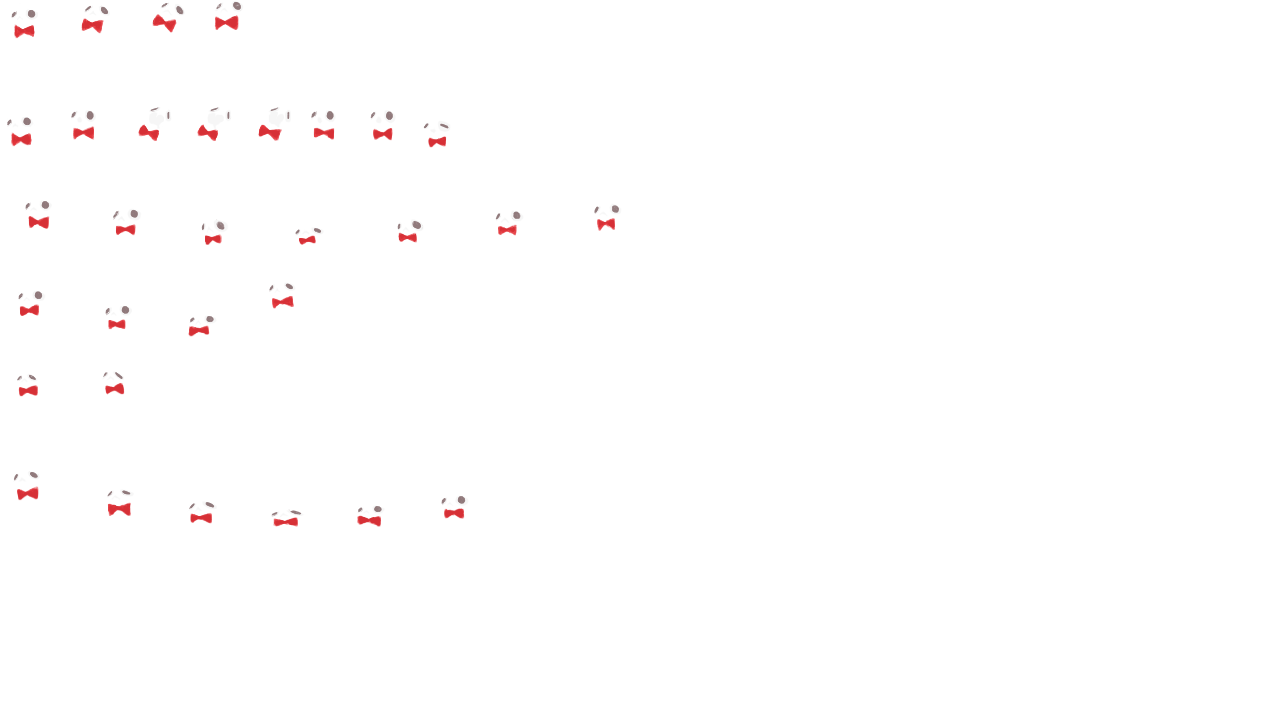
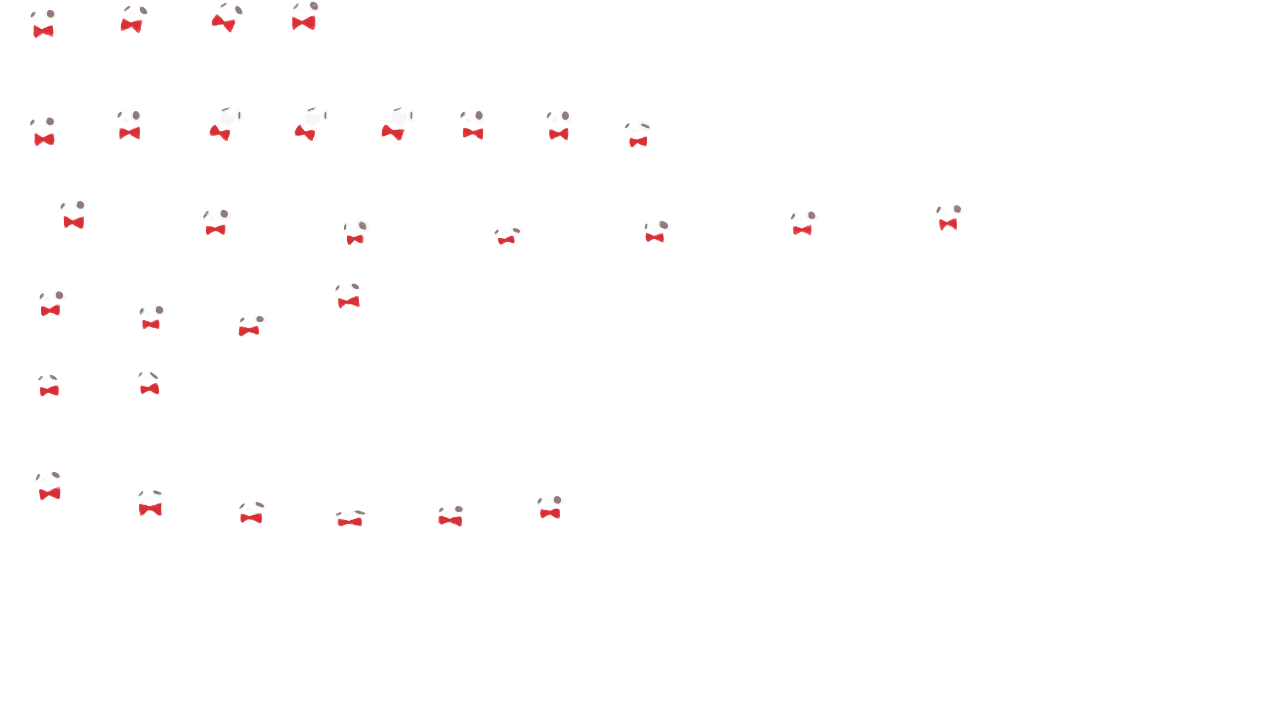
プレイヤー画像とスプライトデータ変更

diff --git a/sprite_data.cpp b/sprite_data.cpp
@@ -135,10 +135,10 @@ SPRITE_LEFTTOP e_sprCoverBack = SPRITE_LEFTTOP(TEX_COVER_BACK, 0, 0, PAGE_WIDTH 
 
 SPRITE_BOTTOM e_pAnimePlayerStandby[] = {
 
-	SPRITE_BOTTOM(TEX_PLAYER, 0 + 67 * 0, 0, 67, 55, 8),
-	SPRITE_BOTTOM(TEX_PLAYER, 0 + 67 * 1, 0, 67, 55, 8),
-	SPRITE_BOTTOM(TEX_PLAYER, 0 + 67 * 2, 0, 67, 55, 8),
-	SPRITE_BOTTOM(TEX_PLAYER, 0 + 67 * 3, 0, 67, 55, 8),
+	SPRITE_BOTTOM(TEX_PLAYER, 0 + 86 * 0, 0, 86, 55, 8),
+	SPRITE_BOTTOM(TEX_PLAYER, 0 + 86 * 1, 0, 86, 55, 8),
+	SPRITE_BOTTOM(TEX_PLAYER, 0 + 86 * 2, 0, 86, 55, 8),
+	SPRITE_BOTTOM(TEX_PLAYER, 0 + 86 * 3, 0, 86, 55, 8),
 	SPRITE_BOTTOM(-1, 0, 0, 0, 0),
 };
 
@@ -157,14 +157,14 @@ SPRITE_BOTTOM e_pAnimePlayerStandby[] = {
 
 SPRITE_BOTTOM e_pAnimePlayerYawn[] = {
 
-	SPRITE_BOTTOM(TEX_PLAYER, 0 + 60 * 0, 85, 60, 78, 8),
-	SPRITE_BOTTOM(TEX_PLAYER, 0 + 60 * 1, 85, 60, 78, 8),
-	SPRITE_BOTTOM(TEX_PLAYER, 0 + 60 * 2, 85, 60, 78, 8),
-	SPRITE_BOTTOM(TEX_PLAYER, 0 + 60 * 3, 85, 60, 78, 8),
-	SPRITE_BOTTOM(TEX_PLAYER, 0 + 60 * 4, 85, 60, 78, 8),
-	SPRITE_BOTTOM(TEX_PLAYER, 0 + 60 * 5, 85, 60, 78, 8),
-	SPRITE_BOTTOM(TEX_PLAYER, 0 + 60 * 6, 85, 60, 78, 8),
-	SPRITE_BOTTOM(TEX_PLAYER, 0 + 60 * 7, 85, 60, 78, 8),
+	SPRITE_BOTTOM(TEX_PLAYER, 0 + 86 * 0, 85, 86, 78, 8),
+	SPRITE_BOTTOM(TEX_PLAYER, 0 + 86 * 1, 85, 86, 78, 8),
+	SPRITE_BOTTOM(TEX_PLAYER, 0 + 86 * 2, 85, 86, 78, 8),
+	SPRITE_BOTTOM(TEX_PLAYER, 0 + 86 * 3, 85, 86, 78, 8),
+	SPRITE_BOTTOM(TEX_PLAYER, 0 + 86 * 4, 85, 86, 78, 8),
+	SPRITE_BOTTOM(TEX_PLAYER, 0 + 86 * 5, 85, 86, 78, 8),
+	SPRITE_BOTTOM(TEX_PLAYER, 0 + 86 * 6, 85, 86, 78, 8),
+	SPRITE_BOTTOM(TEX_PLAYER, 0 + 86 * 7, 85, 86, 78, 8),
 	SPRITE_BOTTOM(-1, 0, 0, 0, 0),
 };
 
@@ -182,13 +182,13 @@ SPRITE_BOTTOM e_pAnimePlayerYawn[] = {
 
 SPRITE_BOTTOM e_pAnimePlayerRun[] = {
 
-	SPRITE_BOTTOM(TEX_PLAYER, 0 + 96 * 0, 200, 96, 46, 5),
-	SPRITE_BOTTOM(TEX_PLAYER, 0 + 96 * 1, 200, 96, 46, 5),
-	SPRITE_BOTTOM(TEX_PLAYER, 0 + 96 * 2, 200, 96, 46, 5),
-	SPRITE_BOTTOM(TEX_PLAYER, 0 + 96 * 3, 200, 96, 46, 5),
-	SPRITE_BOTTOM(TEX_PLAYER, 0 + 96 * 4, 200, 96, 46, 5),
-	SPRITE_BOTTOM(TEX_PLAYER, 0 + 96 * 5, 200, 96, 46, 5),
-	SPRITE_BOTTOM(TEX_PLAYER, 0 + 96 * 6, 200, 96, 46, 5),
+	SPRITE_BOTTOM(TEX_PLAYER, 0 + 146 * 0, 200, 146, 46, 5),
+	SPRITE_BOTTOM(TEX_PLAYER, 0 + 146 * 1, 200, 146, 46, 5),
+	SPRITE_BOTTOM(TEX_PLAYER, 0 + 146 * 2, 200, 146, 46, 5),
+	SPRITE_BOTTOM(TEX_PLAYER, 0 + 146 * 3, 200, 146, 46, 5),
+	SPRITE_BOTTOM(TEX_PLAYER, 0 + 146 * 4, 200, 146, 46, 5),
+	SPRITE_BOTTOM(TEX_PLAYER, 0 + 146 * 5, 200, 146, 46, 5),
+	SPRITE_BOTTOM(TEX_PLAYER, 0 + 146 * 6, 200, 146, 46, 5),
 	SPRITE_BOTTOM(-1, 0, 0, 0, 0),
 };
 
@@ -209,28 +209,28 @@ SPRITE_BOTTOM e_pAnimePlayerRun[] = {
 //};
 SPRITE_BOTTOM e_pAnimePlayerJumpUp[] = {
 
-	SPRITE_BOTTOM(TEX_PLAYER, 0 + 84 * 0, 280, 84, 57, 5),
-	SPRITE_BOTTOM(TEX_PLAYER, 0 + 84 * 1, 280, 84, 57, 5),
-	SPRITE_BOTTOM(TEX_PLAYER, 0 + 84 * 2, 280, 84, 57, 5),
-	SPRITE_BOTTOM(TEX_PLAYER, 0 + 84 * 3, 280, 84, 57, 5),
+	SPRITE_BOTTOM(TEX_PLAYER, 0 + 100 * 0, 280, 100, 57, 5),
+	SPRITE_BOTTOM(TEX_PLAYER, 0 + 100 * 1, 280, 100, 57, 5),
+	SPRITE_BOTTOM(TEX_PLAYER, 0 + 100 * 2, 280, 100, 57, 5),
+	SPRITE_BOTTOM(TEX_PLAYER, 0 + 100 * 3, 280, 100, 57, 5),
 	SPRITE_BOTTOM(-1, 0, 0, 0, 0),
 };
 
 SPRITE_BOTTOM e_pAnimePlayerJump[] = {
 
-	SPRITE_BOTTOM(TEX_PLAYER, 0 + 84 * 0, 370, 84, 60, 5),
-	SPRITE_BOTTOM(TEX_PLAYER, 0 + 84 * 1, 370, 84, 60, 5),
+	SPRITE_BOTTOM(TEX_PLAYER, 0 + 100 * 0, 370, 100, 60, 5),
+	SPRITE_BOTTOM(TEX_PLAYER, 0 + 100 * 1, 370, 100, 60, 5),
 	SPRITE_BOTTOM(-1, 0, 0, 0, 0),
 };
 
 SPRITE_BOTTOM e_pAnimePlayerJumpDown[] = {
 
-	SPRITE_BOTTOM(TEX_PLAYER, 0 + 84 * 0, 470, 84, 57, 5),
-	SPRITE_BOTTOM(TEX_PLAYER, 0 + 84 * 1, 470, 84, 57, 5),
-	SPRITE_BOTTOM(TEX_PLAYER, 0 + 84 * 2, 470, 84, 57, 5),
-	SPRITE_BOTTOM(TEX_PLAYER, 0 + 84 * 3, 470, 84, 57, 5),
-	SPRITE_BOTTOM(TEX_PLAYER, 0 + 84 * 4, 470, 84, 57, 5),
-	SPRITE_BOTTOM(TEX_PLAYER, 0 + 84 * 5, 470, 84, 57, 5),
+	SPRITE_BOTTOM(TEX_PLAYER, 0 + 100 * 0, 470, 100, 57, 5),
+	SPRITE_BOTTOM(TEX_PLAYER, 0 + 100 * 1, 470, 100, 57, 5),
+	SPRITE_BOTTOM(TEX_PLAYER, 0 + 100 * 2, 470, 100, 57, 5),
+	SPRITE_BOTTOM(TEX_PLAYER, 0 + 100 * 3, 470, 100, 57, 5),
+	SPRITE_BOTTOM(TEX_PLAYER, 0 + 100 * 4, 470, 100, 57, 5),
+	SPRITE_BOTTOM(TEX_PLAYER, 0 + 100 * 5, 470, 100, 57, 5),
 	SPRITE_BOTTOM(-1, 0, 0, 0, 0),
 };
 
